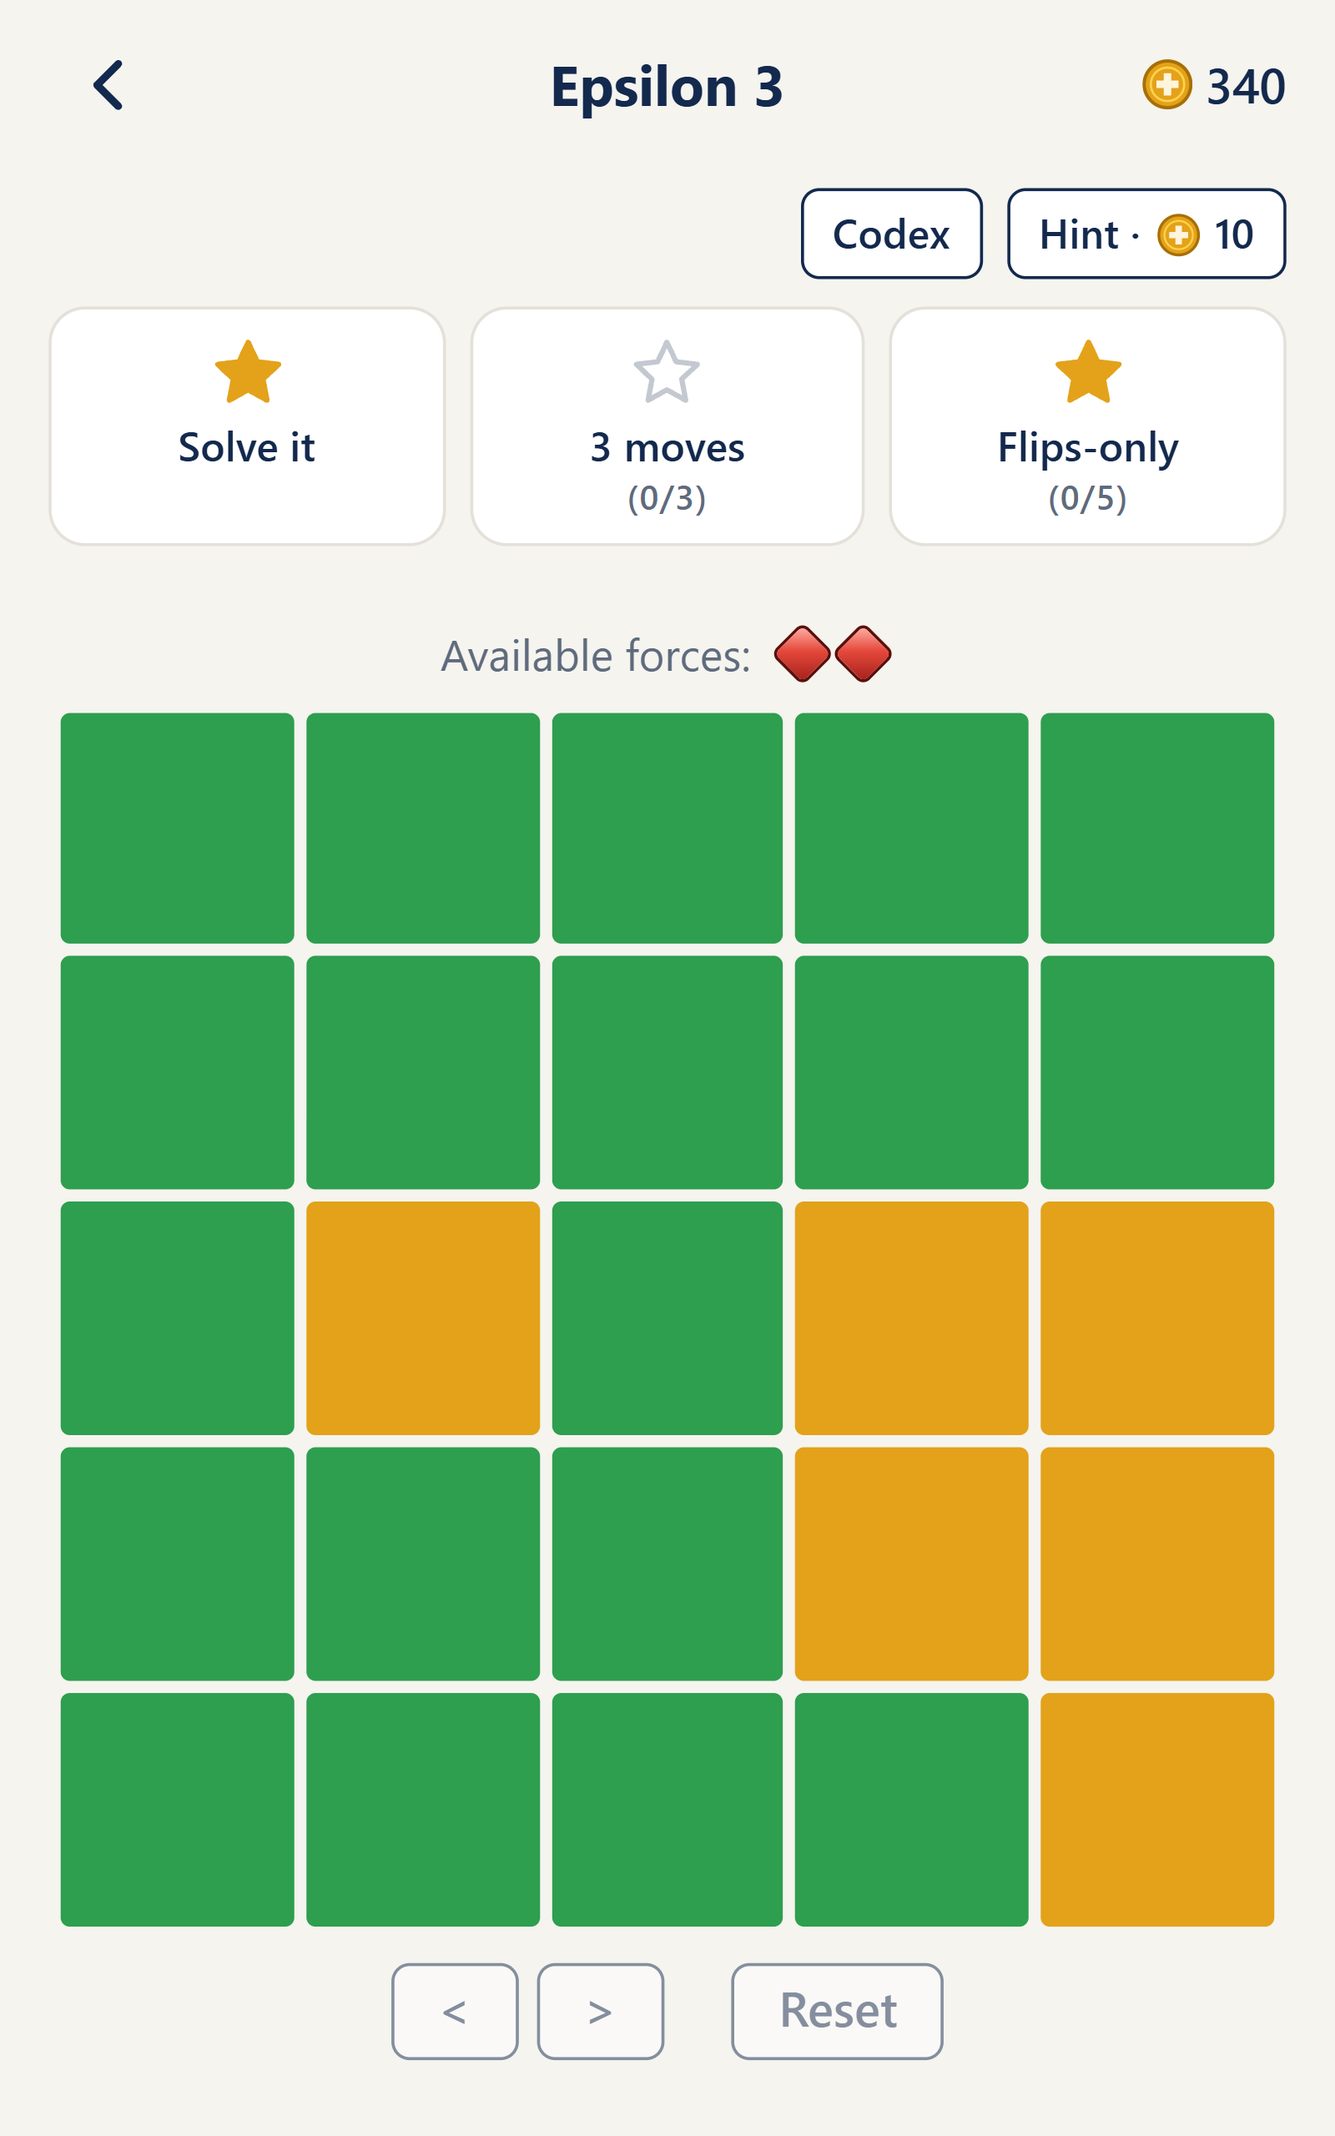
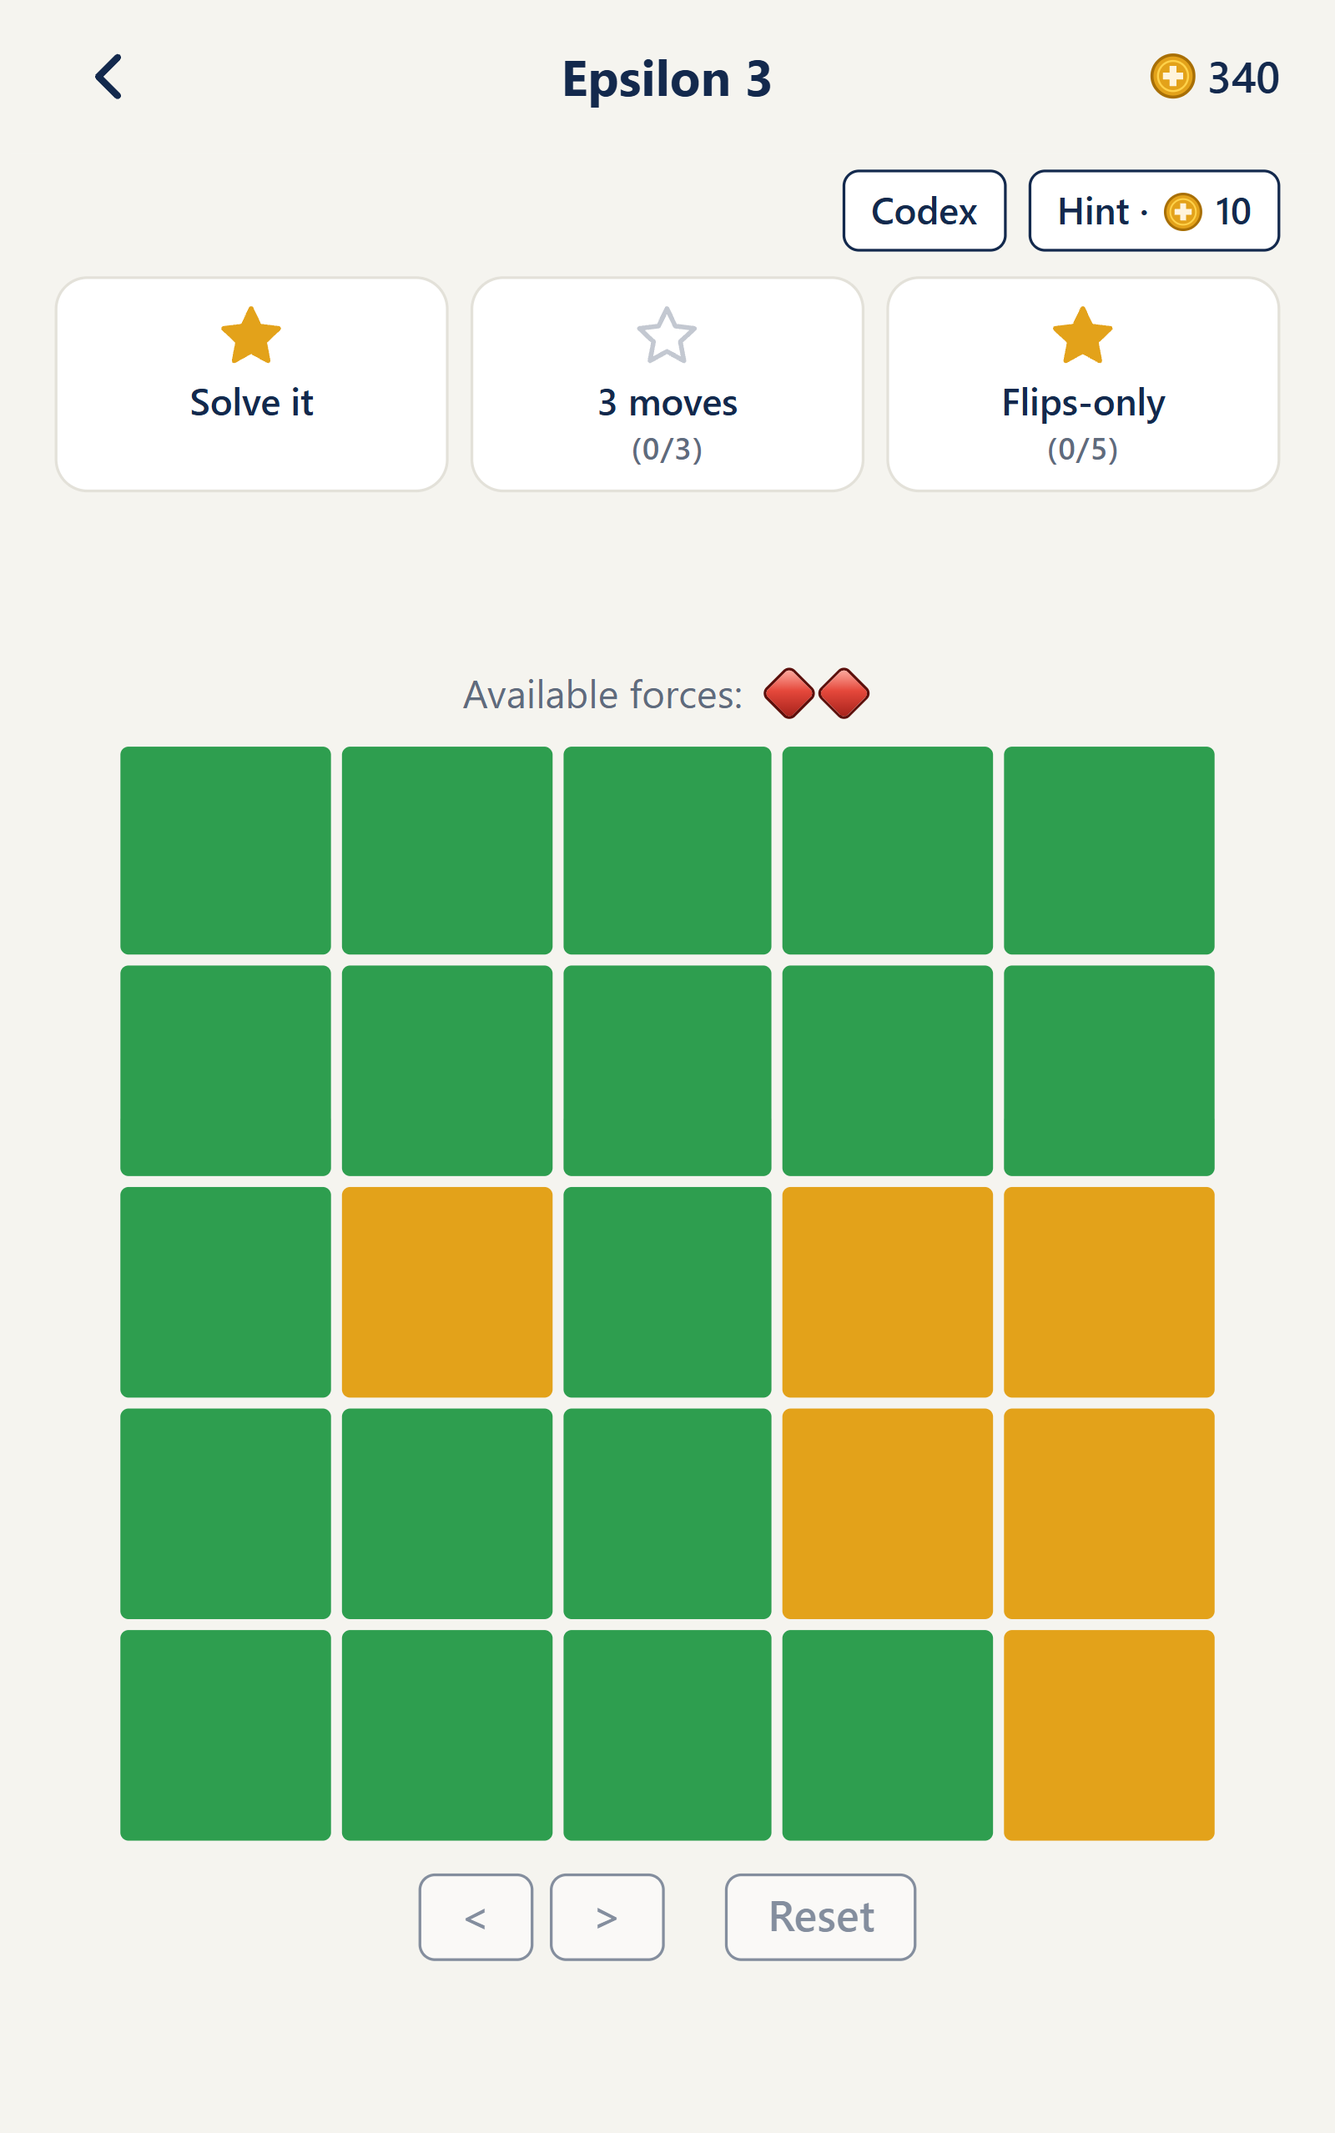
input response in puzzles
multitouch enabled
scrolling disabled

diff --git a/src/game/FlipTilesElement.ts b/src/game/FlipTilesElement.ts
@@ -182,46 +182,67 @@ class FlipTiles extends HTMLElement implements FlipTilesControls {
     };
 
     // With a mouse: click flips, right click or shift click forces. On a touch screen: a tap
-    // flips, a tap and hold forces. A hold that has forced swallows the click that follows
-    // when the finger lifts; moving the finger (to scroll) cancels the hold.
+    // flips, a tap and hold forces; moving the finger (to scroll) does neither.
+    // A tap counts when the finger lifts (pointerup), not on the click that follows: when taps
+    // come fast, or the next finger lands before the last one lifted, phones (iOS above all)
+    // leave out some of those clicks, and the taps were lost. The click a tap still makes is
+    // then skipped. (A click without a touch first, from a mouse or the keyboard, still counts.)
+    // Several fingers at once work too: each tile follows its own finger, and the taps are made
+    // one after the other, in the order the fingers lift (events never run at the same time).
+    let lastTouch = -Infinity; // when a touch last pressed or held a tile (ms, performance.now)
     tiles.forEach((tile, k) => {
       let holdTimer: number | undefined;
       let start = { x: 0, y: 0 };
-      let heldDown = false; // the current touch has already forced the tile
+      let touching = false; // a touch is down on this tile, and may still become a tap
       const cancelHold = () => {
         clearTimeout(holdTimer);
         holdTimer = undefined;
         tile.classList.remove("holding");
       };
       tile.addEventListener("pointerdown", (e) => {
-        heldDown = false;
-        if (e.pointerType === "mouse" || !allowForce) return; // no hold to force
+        if (e.pointerType === "mouse") return;
+        touching = true;
         start = { x: e.clientX, y: e.clientY };
+        if (!allowForce) return; // no hold to force
         tile.classList.add("holding");
         holdTimer = window.setTimeout(() => {
           cancelHold();
-          heldDown = true;
+          touching = false; // (the hold is the move: lifting the finger adds no flip)
+          lastTouch = performance.now();
           if (press(k, true)) navigator.vibrate?.(30); // a small buzz, where phones support it
         }, HOLD_MS);
       });
       tile.addEventListener("pointermove", (e) => {
-        if (holdTimer !== undefined && Math.hypot(e.clientX - start.x, e.clientY - start.y) > 10) cancelHold();
-      });
-      tile.addEventListener("pointerup", cancelHold);
-      tile.addEventListener("pointercancel", cancelHold);
-      tile.addEventListener("pointerleave", cancelHold);
-      tile.addEventListener("click", (e) => {
-        if (heldDown) {
-          heldDown = false; // the hold already forced it
-          return;
+        if (touching && Math.hypot(e.clientX - start.x, e.clientY - start.y) > 10) {
+          touching = false; // a swipe or a scroll, not a tap
+          cancelHold();
         }
+      });
+      tile.addEventListener("pointerup", (e) => {
+        cancelHold();
+        if (e.pointerType === "mouse" || !touching) return;
+        touching = false;
+        lastTouch = performance.now();
+        press(k, false);
+      });
+      const endTouch = () => {
+        touching = false;
+        cancelHold();
+      };
+      tile.addEventListener("pointercancel", endTouch); // (the browser took the touch, to scroll)
+      tile.addEventListener("pointerleave", (e) => {
+        // (a finger lifting also leaves the tile: after its pointerup, so nothing is lost)
+        if (e.pointerType === "mouse") cancelHold();
+      });
+      tile.addEventListener("click", (e) => {
+        if (performance.now() - lastTouch < 800) return; // a touch's click: already counted
         press(k, e.shiftKey);
       });
       // Right click forces. A long press on a touch screen also opens this menu on some phones
       // (Android): there, the hold does the forcing, so only stop the menu.
       tile.addEventListener("contextmenu", (e) => {
         e.preventDefault();
-        if (holdTimer === undefined && !heldDown) press(k, true);
+        if (holdTimer === undefined && !touching && performance.now() - lastTouch >= 800) press(k, true);
       });
     });
 

diff --git a/e2e/smoke.spec.ts b/e2e/smoke.spec.ts
@@ -98,6 +98,45 @@ test("a level with no forces refuses a force, one with forces takes them until t
   expect(await board()).toBe(after);
 });
 
+test.describe("on a touch screen", () => {
+  test.use({ hasTouch: true, isMobile: true });
+
+  test("quick taps and taps with several fingers each flip once, and a hold forces without a flip", async ({ page }) => {
+    await returningPlayer(page);
+    await page.goto("./#/level/1/2"); // (Alpha 2: one force)
+    await expect(tile(page, 0)).toBeVisible();
+    // Taps straight after each other: each one a flip (the tile counts the finger lifting, and
+    // skips the click that follows, so none counts twice)
+    for (const k of [0, 1, 2, 3]) await tile(page, k).tap();
+    await expect(page.locator(".level-screen .tile.flipped")).toHaveCount(4);
+    // Fingers on the screen at the same time (touch events straight to the browser): two fingers
+    // down together, then up together; then one down, a second down, the first up, the second up
+    const cdp = await page.context().newCDPSession(page);
+    const at = async (k: number, id: number) => {
+      const b = (await tile(page, k).boundingBox())!;
+      return { x: b.x + b.width / 2, y: b.y + b.height / 2, id };
+    };
+    const touch = (type: string, touchPoints: object[]) => cdp.send("Input.dispatchTouchEvent", { type, touchPoints });
+    const [a, b, c, d] = [await at(10, 1), await at(14, 2), await at(20, 3), await at(22, 4)];
+    await touch("touchStart", [a, b]);
+    await touch("touchEnd", []);
+    await expect(page.locator(".level-screen .tile.flipped")).toHaveCount(6);
+    await touch("touchStart", [c]);
+    await touch("touchStart", [c, d]);
+    await touch("touchEnd", [d]); // (the points still down: c lifted)
+    await touch("touchEnd", []);
+    await expect(page.locator(".level-screen .tile.flipped")).toHaveCount(8);
+    // A hold: a force when the time is up, and no flip when the finger lifts
+    const box = (await tile(page, 24).boundingBox())!;
+    const point = { x: box.x + box.width / 2, y: box.y + box.height / 2, id: 9 };
+    await cdp.send("Input.dispatchTouchEvent", { type: "touchStart", touchPoints: [point] });
+    await page.waitForTimeout(700);
+    await cdp.send("Input.dispatchTouchEvent", { type: "touchEnd", touchPoints: [] });
+    await expect(page.locator(".level-screen .tile.forced")).toHaveCount(1);
+    await expect(page.locator(".level-screen .tile.flipped")).toHaveCount(8);
+  });
+});
+
 test("Top up: the smallest coin pack gives 100 coins, doubled the first time (test build)", async ({ page }) => {
   test.skip(!testBuild, "a release build: the coin packs are only in the apps, with the store");
   await returningPlayer(page, 10);

diff --git a/index.html b/index.html
@@ -6,9 +6,10 @@
     <meta name="viewport" content="width=device-width, initial-scale=1, viewport-fit=cover, user-scalable=no" />
     <script>
       // In the iOS app on an iPad: the game, made for phones (a column of at most 480px), zoomed
-      // in to fill the screen. As much zoom as leaves a page of at least 440 x 700: as wide as a
-      // big phone, and tall enough for the level screen (on a 10" iPad: a 525 x 700 page, drawn
-      // 1.5x). Done here, through the viewport, before anything is drawn: iOS then lays the page
+      // in to fill the screen. As much zoom as leaves a page of at least 440 x 780: as wide as a
+      // big phone, and tall enough that no screen scrolls (the level screen needs 678, a stage
+      // 731, plus room for the status bar and for Safari's fonts; on a 10" iPad: a 585 x 780
+      // page, drawn 1.4x). Done here, through the viewport, before anything is drawn: iOS then lays the page
       // out at that width and scales it to the screen. (The web view's own zoom, pageZoom, only
       // drew it larger at the full width: too big, and scrolling.) The app is portrait only and
       // full screen (Info.plist), so the size never changes. Phones, and browsers, stay at 1x.
@@ -18,7 +19,7 @@
         if (!cap || !cap.getPlatform || cap.getPlatform() !== "ios") return;
         var w = Math.min(screen.width, screen.height);
         var h = Math.max(screen.width, screen.height);
-        var zoom = Math.min(w / 440, h / 700);
+        var zoom = Math.min(w / 440, h / 780);
         if (zoom <= 1.01) return;
         document.querySelector('meta[name="viewport"]').setAttribute("content",
           "width=" + Math.round(w / zoom) + ", initial-scale=" + zoom + ", minimum-scale=" + zoom +

diff --git a/src/game/flip-tiles.css b/src/game/flip-tiles.css
@@ -63,7 +63,10 @@
   background: #ffffff; /* white gaps between the tiles, like the page */
   transition: background-color 0s; /* back to white at once, e.g. when going back a move */
   user-select: none;
-  touch-action: manipulation; /* no double-tap zoom while playing */
+  /* Every touch on the board is the game's: no double-tap zoom, no pinch, no scroll. So taps with
+     several fingers at once each count (with a pinch allowed, the phone could take two fingers
+     for a zoom and cancel both taps). A swipe outside the board still scrolls the page. */
+  touch-action: none;
 }
 
 .tile {

diff --git a/android/app/src/main/java/com/kasperarfman/fliptiles/MainActivity.java b/android/app/src/main/java/com/kasperarfman/fliptiles/MainActivity.java
@@ -7,13 +7,13 @@ import com.getcapacitor.BridgeActivity;
 public class MainActivity extends BridgeActivity {
     // On a tablet the game, made for phones (a column of at most 480px), is zoomed in, like a
     // browser's zoom: the page is laid out smaller and drawn larger, so it fills the screen. As
-    // much zoom as leaves a page of at least 440 x 700 dp in portrait: as wide as a big phone, and
-    // tall enough for the level screen. The same rule as on an iPad (the viewport script in
+    // much zoom as leaves a page of at least 440 x 780 dp in portrait: as wide as a big phone, and
+    // tall enough that no screen scrolls (the level screen needs 678, a stage 731). The same rule as on an iPad (the viewport script in
     // index.html). Phones stay as they are. Set once, at the start, for the
     // portrait shape (the app is portrait only, see AndroidManifest.xml; where a tablet turns it
     // anyway, from Android 17, it keeps this zoom and the level screen scrolls).
     private static final float MIN_WIDTH = 440f;
-    private static final float MIN_HEIGHT = 700f;
+    private static final float MIN_HEIGHT = 780f;
 
     @Override
     protected void onCreate(Bundle savedInstanceState) {

diff --git a/assets/store/listing/app-store.md b/assets/store/listing/app-store.md
@@ -25,9 +25,11 @@ Turn the whole board one color
 
 **Content rights**: *does not contain third-party content*.
 
-**Age rating** (the questionnaire): *None* for everything, *No* to unrestricted web access,
-gambling and contests. Result: 4+. (The ads are Google's to keep suitable; in AdMob, set the
-content rating of the ad units to *G* or *PG*.)
+**Age rating** (the questionnaire): **Yes** to *Advertising* (the rewarded video ads) and to
+*In-App Purchases* (the coin packs); *None* for all content (violence, mature themes, ...); *No*
+to unrestricted web access, gambling, contests, and user-generated content or messaging (other
+players only see a leaderboard name). Result: 4+. (The ads are Google's to keep suitable; in
+AdMob, set the content rating of the ad units to *G* or *PG*.)
 
 ## The version page
 
@@ -109,12 +111,15 @@ used as their *promotional image* (optional).
 
 ## App Privacy
 
-*Data collection: Yes.* Then, per data type (what to tick, from `docs/developer/deploy/stores.md`):
+*Data collection: Yes.* Then, per data type (what to tick, from `docs/developer/deploy/stores.md`;
+the AdMob rows follow Google's [Apple privacy disclosure](https://developers.google.com/admob/ios/privacy/data-disclosure),
+check it there when the SDK is updated):
 
 | Data type | Used for | Linked to the user | Tracking |
 | --- | --- | --- | --- |
-| Identifiers → Device ID | Third-Party Advertising | No | Yes (only after the player allows tracking) |
-| Usage Data → Advertising Data | Third-Party Advertising | No | Yes |
-| Diagnostics → Other Diagnostic Data (crash, performance) | Third-Party Advertising | No | No |
+| Identifiers → Device ID | Third-Party Advertising, Analytics, App Functionality | No | Yes (only after the player allows tracking) |
+| Location → Coarse Location (AdMob, from the IP address) | Third-Party Advertising | No | Yes |
+| Usage Data → Advertising Data (and Product Interaction) | Third-Party Advertising, Analytics | No | Yes |
+| Diagnostics → Crash, Performance, Other Diagnostic Data | Analytics, App Functionality | No | No |
 | User Content → Gameplay Content (ranked games, if joined) | App Functionality | No | No |
 | Contact Info → Name (leaderboard name, if joined) | App Functionality | No | No |

diff --git a/docs/developer/deploy/ios.md b/docs/developer/deploy/ios.md
@@ -88,7 +88,8 @@ checks the lengths against Apple's limits after a change.
   and **Privacy Policy URL** (`.../privacy.html`). Both are online once the site is deployed
   with them.
 - **App Privacy** (the "nutrition label"): what to answer is in [Releasing to the stores](stores.md).
-- **Age rating**: a questionnaire; for this game everything is *None*, which gives 4+ (the ads
+- **Age rating**: a questionnaire; *Yes* to advertising and in-app purchases, *None* or *No* to
+  the rest (the answers are in `assets/store/listing/app-store.md`), which gives 4+ (the ads
   are Google's to keep suitable).
 - **Build**: pick the build that came through TestFlight; under *In-App Purchases* add the four
   coin packs; then **Add for Review**.
@@ -112,7 +113,8 @@ must say why (`NSUserTrackingUsageDescription` in `Info.plist`).
   in through its viewport (a small script at the top of `index.html`, with
   `preferredContentMode: "mobile"` in `capacitor.config.ts`): it is laid out smaller and drawn
   larger, so it fills the screen: as much zoom as leaves a page of at
-  least 440 x 700 (as wide as a big phone, and tall enough for the level screen). Android tablets
+  least 440 x 780 (as wide as a big phone, and tall enough that no screen scrolls: the level
+  screen needs 678, a stage 731, plus room for the status bar). Android tablets
   do the same (`MainActivity.java`).
 - Portrait only, on both platforms (`Info.plist`, `AndroidManifest.xml`). On an iPad Apple allows
   that only with `UIRequiresFullScreen` (no Split View). On Android 16 a tablet keeps the lock

diff --git a/docs/developer/deploy/stores.md b/docs/developer/deploy/stores.md
@@ -109,9 +109,11 @@ no longer "nothing":
   *Advertising* and *Fraud prevention*, not optional only in the sense that ads need them (ads
   themselves are optional). Google's own guide lists what AdMob collects:
   [AdMob data disclosure](https://developers.google.com/admob/android/privacy/play-data-disclosure).
-- Apple, *App Privacy*: *Identifiers → Device ID*, *Usage Data → Advertising Data*, *Diagnostics*,
-  used for **Third-Party Advertising**, and *linked to the user / used for tracking* only when the
-  player allowed tracking. Apple's guide: [App privacy details](https://developer.apple.com/app-store/app-privacy-details/).
+- Apple, *App Privacy*: *Identifiers → Device ID*, *Location → Coarse Location*, *Usage Data →
+  Advertising Data*, *Diagnostics*, collected by the AdMob SDK, mainly for **Third-Party
+  Advertising**; not linked to the user, and the first three count as *tracking*. The
+  leaderboard name and games only for *App Functionality*. Every tick is in
+  `assets/store/listing/app-store.md`. Apple's guide: [App privacy details](https://developer.apple.com/app-store/app-privacy-details/).
 - Target audience / age: not for children (under 13). An app for children may only show
   certified family-safe ads, with other rules (Google's *Families* policy).
 

diff --git a/docs/learning-log.md b/docs/learning-log.md
@@ -191,4 +191,10 @@ Notes added as the project goes along: what was learned, problems hit, and how t
   screenshots, made in a browser at the zoomed size, couldn't show that). Now the page sets its
   own viewport on an iPad (`width=525, initial-scale=1.54`, worked out from the screen), the
   phone way of zooming, which iOS follows. Lesson: test on the real device; a simulated screen
-  only shows what the code *should* do.
+  only shows what the code *should* do. On the iPad it then still scrolled a little: the zoom
+  left a 700 px tall page and the level screen needs 678, too close once the status bar and
+  Safari's fonts take their share. Measured (a script that shrinks the browser until a screen
+  scrolls): now at least 780, which leaves room on every screen. And quick taps on the board got
+  lost on iOS: the board listened for `click`, and when taps come fast or overlap, the phone
+  leaves some clicks out. Now a tap counts when the finger lifts (`pointerup`), and its click is
+  skipped.
